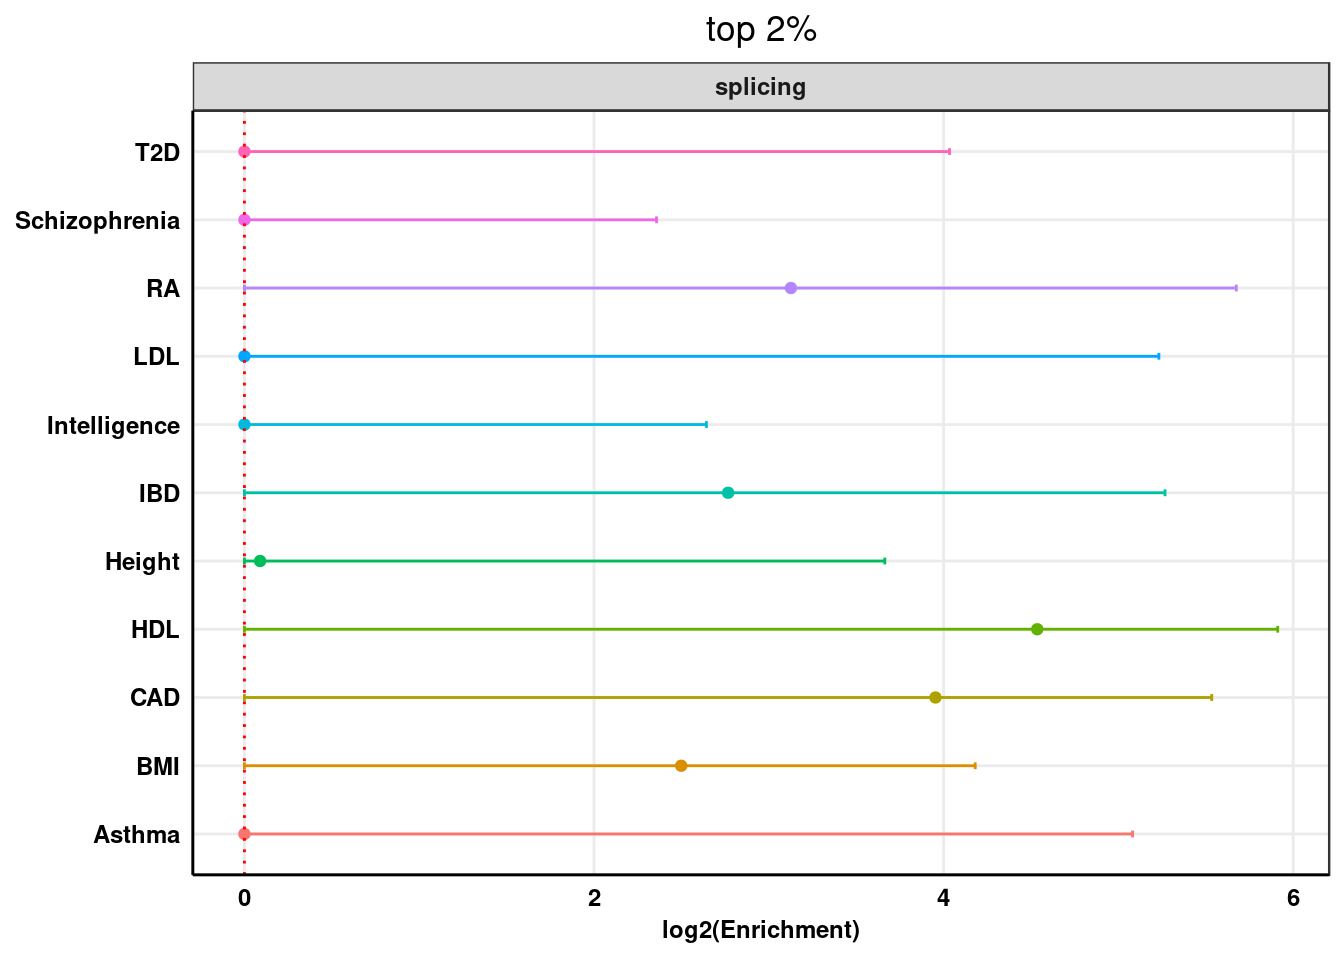
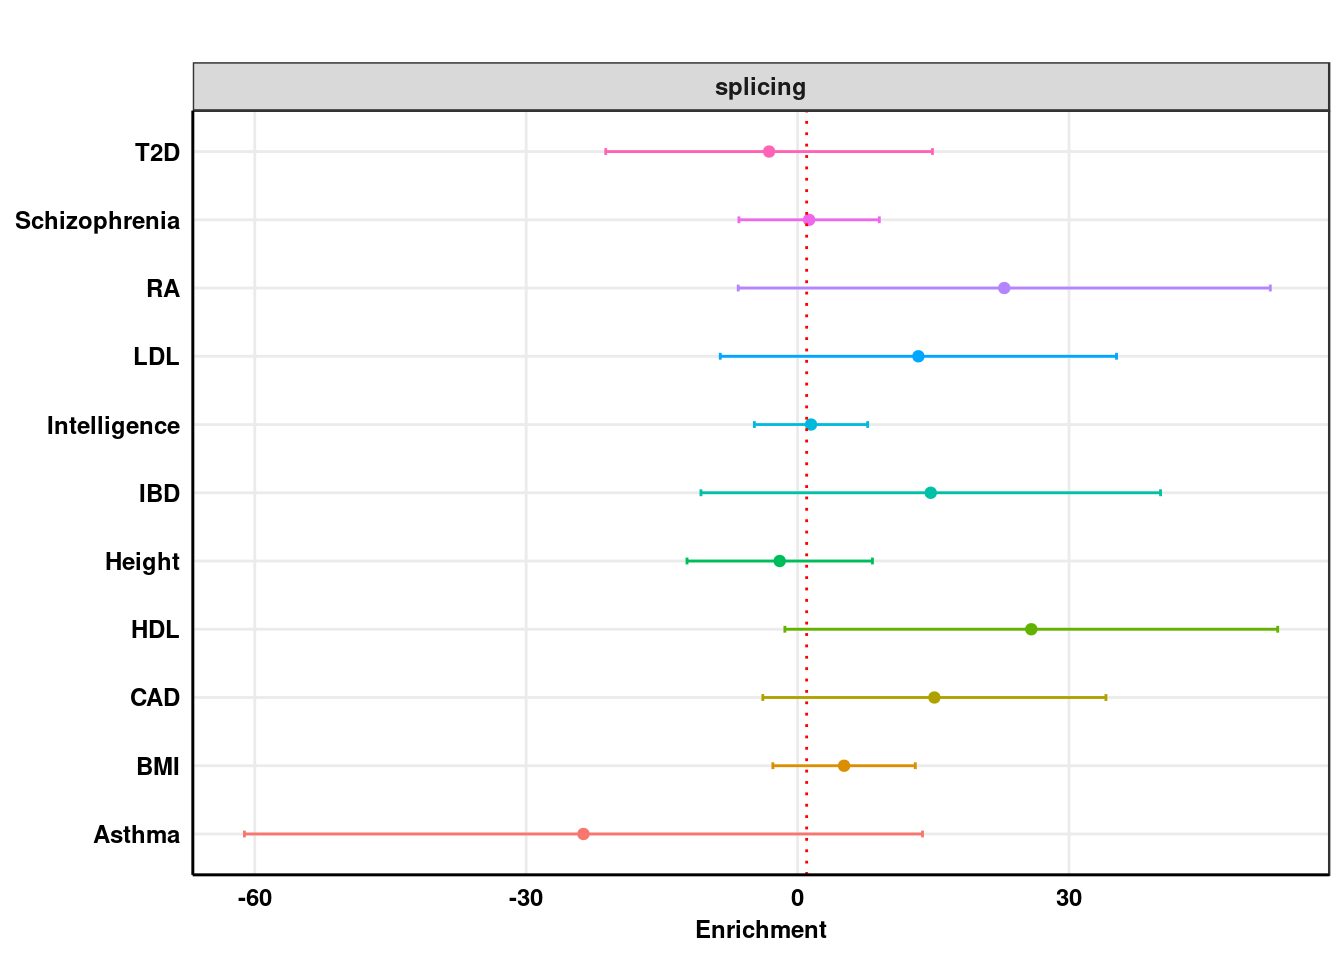
Build site.

diff --git a/docs/sldsc.html b/docs/sldsc.html
@@ -353,7 +353,7 @@ div.tocify {
 <div class="tab-content">
 <div id="summary" class="tab-pane fade in active">
 <p>
-<strong>Last updated:</strong> 2020-09-08
+<strong>Last updated:</strong> 2020-09-18
 </p>
 <p>
 <strong>Checks:</strong> <span class="glyphicon glyphicon-ok text-success" aria-hidden="true"></span> 7 <span class="glyphicon glyphicon-exclamation-sign text-danger" aria-hidden="true"></span> 0
@@ -444,16 +444,16 @@ This reproducible <a href="http://rmarkdown.rstudio.com">R Markdown</a> analysis
 <div class="panel panel-default">
 <div class="panel-heading">
 <p class="panel-title">
-<a data-toggle="collapse" data-parent="#workflowr-checks" href="#strongRepositoryversionstrongahrefhttpsgithubcomcdu8sldscsplicingtreedc48f7040b5e7a2f9f46de739e7020160c7e859etargetblankdc48f70a"> <span class="glyphicon glyphicon-ok text-success" aria-hidden="true"></span> <strong>Repository version:</strong> <a href="https://github.com/cdu8/sldsc_splicing/tree/dc48f7040b5e7a2f9f46de739e7020160c7e859e" target="_blank">dc48f70</a> </a>
+<a data-toggle="collapse" data-parent="#workflowr-checks" href="#strongRepositoryversionstrongahrefhttpsgithubcomcdu8sldscsplicingtree159b332658da0a9349ab86168fc42ccd061981d0targetblank159b332a"> <span class="glyphicon glyphicon-ok text-success" aria-hidden="true"></span> <strong>Repository version:</strong> <a href="https://github.com/cdu8/sldsc_splicing/tree/159b332658da0a9349ab86168fc42ccd061981d0" target="_blank">159b332</a> </a>
 </p>
 </div>
[2 lines of base64/hex data omitted]
 <div class="panel-body">
 <p>
 Great! You are using Git for version control. Tracking code development and connecting the code version to the results is critical for reproducibility.
 </p>
 <p>
-The results in this page were generated with repository version <a href="https://github.com/cdu8/sldsc_splicing/tree/dc48f7040b5e7a2f9f46de739e7020160c7e859e" target="_blank">dc48f70</a>. See the <em>Past versions</em> tab to see a history of the changes made to the R Markdown and HTML files.
+The results in this page were generated with repository version <a href="https://github.com/cdu8/sldsc_splicing/tree/159b332658da0a9349ab86168fc42ccd061981d0" target="_blank">159b332</a>. See the <em>Past versions</em> tab to see a history of the changes made to the R Markdown and HTML files.
 </p>
 <p>
 Note that you need to be careful to ensure that all relevant files for the analysis have been committed to Git prior to generating the results (you can use <code>wflow_publish</code> or <code>wflow_git_commit</code>). workflowr only checks the R Markdown file, but you know if there are other scripts or data files that it depends on. Below is the status of the Git repository when the results were generated:
@@ -499,6 +499,40 @@ Message
 </tr>
 </thead>
 <tbody>
+<tr>
+<td>
+Rmd
+</td>
+<td>
+<a href="https://github.com/cdu8/sldsc_splicing/blob/159b332658da0a9349ab86168fc42ccd061981d0/analysis/sldsc.Rmd" target="_blank">159b332</a>
+</td>
+<td>
+cdu8
+</td>
+<td>
+2020-09-18
+</td>
+<td>
+wflow_publish(c(“analysis/sldsc.Rmd”))
+</td>
+</tr>
+<tr>
+<td>
+html
+</td>
+<td>
+<a href="https://rawcdn.githack.com/cdu8/sldsc_splicing/635efaf0d599e64fda2ac444624e596f7b6f90d6/docs/sldsc.html" target="_blank">635efaf</a>
+</td>
+<td>
+cdu8
+</td>
+<td>
+2020-09-08
+</td>
+<td>
+Build site.
+</td>
+</tr>
 <tr>
 <td>
 Rmd
@@ -794,34 +828,43 @@ combine_sldsc_traits &lt;- function(trait_name_list, dir_results, baseline, topX
 dir_results &lt;- &quot;/project2/xinhe/cdu/ldsc/results/splicing&quot;
 
 #top5
-result_sLDSC_top5 &lt;- combine_sldsc_traits(trait_name_list, dir_results, baseline, &quot;top5_filt&quot;, &quot;hg19_spidex_0.05_filt&quot;)
+result_sLDSC_top5 &lt;- combine_sldsc_traits(trait_name_list, dir_results, baseline, &quot;top5&quot;, &quot;hg19_spidex_0.05&quot;)
 result_sLDSC_top5$Category &lt;- factor(result_sLDSC_top5$Category, levels = rev(annot_list) )
 result_sLDSC_top5$Color &lt;- factor(result_sLDSC_top5$Disease, levels = trait_name_list)
 
 #top2
-result_sLDSC_top2 &lt;- combine_sldsc_traits(trait_name_list, dir_results, baseline, &quot;top2_filt&quot;, &quot;hg19_spidex_0.02_filt&quot;)
+result_sLDSC_top2 &lt;- combine_sldsc_traits(trait_name_list, dir_results, baseline, &quot;top2&quot;, &quot;hg19_spidex_0.02&quot;)
 result_sLDSC_top2$Category &lt;- factor(result_sLDSC_top2$Category, levels = rev(annot_list) )
 result_sLDSC_top2$Color &lt;- factor(result_sLDSC_top2$Disease, levels = trait_name_list)
 
 #top10
-result_sLDSC_top10 &lt;- combine_sldsc_traits(trait_name_list, dir_results, baseline, &quot;top10_filt&quot;, &quot;hg19_spidex_0.10_filt&quot;)
+result_sLDSC_top10 &lt;- combine_sldsc_traits(trait_name_list, dir_results, baseline, &quot;top10&quot;, &quot;hg19_spidex_0.10&quot;)
 result_sLDSC_top10$Category &lt;- factor(result_sLDSC_top10$Category, levels = rev(annot_list) )
-result_sLDSC_top10$Color &lt;- factor(result_sLDSC_top10$Disease, levels = trait_name_list)</code></pre>
+result_sLDSC_top10$Color &lt;- factor(result_sLDSC_top10$Disease, levels = trait_name_list)
+
+#continuous
+result_sLDSC_cont &lt;- combine_sldsc_traits(trait_name_list, dir_results, baseline, &quot;continuous&quot;, &quot;hg19_spidex_dpsi_zscore&quot;)
+result_sLDSC_cont$Category &lt;- factor(result_sLDSC_cont$Category, levels = rev(annot_list) )
+result_sLDSC_cont$Color &lt;- factor(result_sLDSC_cont$Disease, levels = trait_name_list)</code></pre>
 <div id="data-tables" class="section level3">
 <h3>Data Tables</h3>
 <pre class="r"><code>DT::datatable(format(result_sLDSC_top2[,1:8], digits = 2), options = list(scrollX = TRUE, keys = TRUE),rownames = F, caption = &#39;Table 1. Top 2%&#39;)</code></pre>
 <div id="htmlwidget-578d03fe88b24cf1b205" style="width:100%;height:auto;" class="datatables html-widget"></div>
-<script type="application/json" data-for="htmlwidget-578d03fe88b24cf1b205">{"x":{"filter":"none","caption":"<caption>Table 1. Top 2%<\/caption>","data":[["Asthma","BMI","CAD","HDL","Height","IBD","Intelligence","LDL","RA","Schizophrenia","T2D"],["splicing","splicing","splicing","splicing","splicing","splicing","splicing","splicing","splicing","splicing","splicing"],["0.0012","0.0012","0.0012","0.0012","0.0012","0.0012","0.0012","0.0012","0.0012","0.0012","0.0012"],["-0.0160"," 0.0067"," 0.0185"," 0.0277"," 0.0013"," 0.0081","-0.0046","-0.0097"," 0.0104","-0.0079","-0.0092"],["0.0288","0.0076","0.0188","0.0225","0.0071","0.0193","0.0061","0.0278","0.0258","0.0071","0.0147"],["-13.4","  5.7"," 15.5"," 23.2","  1.1","  6.8"," -3.8"," -8.2","  8.7"," -6.6"," -7.7"],["24.1"," 6.4","15.7","18.9"," 5.9","16.2"," 5.1","23.3","21.6"," 6.0","12.3"],["0.55","0.47","0.36","0.25","0.99","0.72","0.35","0.69","0.72","0.20","0.48"]],"container":"<table class=\"display\">\n  <thead>\n    <tr>\n      <th>Disease<\/th>\n      <th>Category<\/th>\n      <th>Prop._SNPs<\/th>\n      <th>Prop._h2<\/th>\n      <th>Prop._h2_std_error<\/th>\n      <th>Enrichment<\/th>\n      <th>Enrichment_std_error<\/th>\n      <th>Enrichment_p<\/th>\n    <\/tr>\n  <\/thead>\n<\/table>","options":{"scrollX":true,"keys":true,"order":[],"autoWidth":false,"orderClasses":false}},"evals":[],"jsHooks":[]}</script>
+<script type="application/json" data-for="htmlwidget-578d03fe88b24cf1b205">{"x":{"filter":"none","caption":"<caption>Table 1. Top 2%<\/caption>","data":[["Asthma","BMI","CAD","HDL","Height","IBD","Intelligence","LDL","RA","Schizophrenia","T2D"],["splicing","splicing","splicing","splicing","splicing","splicing","splicing","splicing","splicing","splicing","splicing"],["0.00091","0.00091","0.00091","0.00091","0.00091","0.00091","0.00091","0.00091","0.00091","0.00091","0.00091"],["-3.1e-02"," 5.7e-03"," 1.9e-02"," 2.0e-02"," 1.4e-05"," 5.3e-03","-1.3e-03","-1.5e-02"," 1.3e-03","-1.9e-03","-1.3e-02"],["0.0239","0.0063","0.0153","0.0236","0.0064","0.0170","0.0054","0.0247","0.0212","0.0065","0.0139"],["-34.176","  6.282"," 20.954"," 22.141","  0.015","  5.775"," -1.440","-16.596","  1.378"," -2.043","-14.370"],["26.2"," 6.9","16.8","25.9"," 7.0","18.7"," 5.9","27.1","23.3"," 7.2","15.2"],["0.18","0.44","0.24","0.41","0.89","0.80","0.68","0.51","0.99","0.67","0.31"]],"container":"<table class=\"display\">\n  <thead>\n    <tr>\n      <th>Disease<\/th>\n      <th>Category<\/th>\n      <th>Prop._SNPs<\/th>\n      <th>Prop._h2<\/th>\n      <th>Prop._h2_std_error<\/th>\n      <th>Enrichment<\/th>\n      <th>Enrichment_std_error<\/th>\n      <th>Enrichment_p<\/th>\n    <\/tr>\n  <\/thead>\n<\/table>","options":{"scrollX":true,"keys":true,"order":[],"autoWidth":false,"orderClasses":false}},"evals":[],"jsHooks":[]}</script>
 <pre class="r"><code>DT::datatable(format(result_sLDSC_top5[,1:8], digits = 2), options = list(scrollX = TRUE, keys = TRUE),rownames = F, caption = &#39;Table 2. Top 5%&#39;)</code></pre>
 <div id="htmlwidget-3b4dcd290ae952b4a851" style="width:100%;height:auto;" class="datatables html-widget"></div>
-<script type="application/json" data-for="htmlwidget-3b4dcd290ae952b4a851">{"x":{"filter":"none","caption":"<caption>Table 2. Top 5%<\/caption>","data":[["Asthma","BMI","CAD","HDL","Height","IBD","Intelligence","LDL","RA","Schizophrenia","T2D"],["splicing","splicing","splicing","splicing","splicing","splicing","splicing","splicing","splicing","splicing","splicing"],["0.0029","0.0029","0.0029","0.0029","0.0029","0.0029","0.0029","0.0029","0.0029","0.0029","0.0029"],["-0.0331"," 0.0190"," 0.0335"," 0.0604","-0.0052"," 0.0626"," 0.0011"," 0.0267"," 0.0610","-0.0014","-0.0034"],["0.0424","0.0118","0.0245","0.0294","0.0126","0.0325","0.0085","0.0292","0.0409","0.0094","0.0212"],["-11.52","  6.62"," 11.68"," 21.03"," -1.80"," 21.81","  0.38","  9.31"," 21.23"," -0.47"," -1.19"],["14.8"," 4.1"," 8.5","10.2"," 4.4","11.3"," 3.0","10.2","14.3"," 3.3"," 7.4"],["0.396","0.173","0.214","0.064","0.524","0.066","0.835","0.405","0.157","0.653","0.767"]],"container":"<table class=\"display\">\n  <thead>\n    <tr>\n      <th>Disease<\/th>\n      <th>Category<\/th>\n      <th>Prop._SNPs<\/th>\n      <th>Prop._h2<\/th>\n      <th>Prop._h2_std_error<\/th>\n      <th>Enrichment<\/th>\n      <th>Enrichment_std_error<\/th>\n      <th>Enrichment_p<\/th>\n    <\/tr>\n  <\/thead>\n<\/table>","options":{"scrollX":true,"keys":true,"order":[],"autoWidth":false,"orderClasses":false}},"evals":[],"jsHooks":[]}</script>
+<script type="application/json" data-for="htmlwidget-3b4dcd290ae952b4a851">{"x":{"filter":"none","caption":"<caption>Table 2. Top 5%<\/caption>","data":[["Asthma","BMI","CAD","HDL","Height","IBD","Intelligence","LDL","RA","Schizophrenia","T2D"],["splicing","splicing","splicing","splicing","splicing","splicing","splicing","splicing","splicing","splicing","splicing"],["0.0022","0.0022","0.0022","0.0022","0.0022","0.0022","0.0022","0.0022","0.0022","0.0022","0.0022"],["-0.0530"," 0.0115"," 0.0339"," 0.0578","-0.0044"," 0.0330"," 0.0033"," 0.0299"," 0.0512"," 0.0028","-0.0071"],["0.0428","0.0090","0.0217","0.0311","0.0117","0.0290","0.0072","0.0250","0.0336","0.0089","0.0206"],["-23.7","  5.1"," 15.1"," 25.8"," -2.0"," 14.7","  1.5"," 13.4"," 22.8","  1.3"," -3.2"],["19.1"," 4.0"," 9.7","13.9"," 5.2","13.0"," 3.2","11.2","15.0"," 4.0"," 9.2"],["0.20","0.30","0.15","0.09","0.57","0.29","0.88","0.26","0.15","0.95","0.65"]],"container":"<table class=\"display\">\n  <thead>\n    <tr>\n      <th>Disease<\/th>\n      <th>Category<\/th>\n      <th>Prop._SNPs<\/th>\n      <th>Prop._h2<\/th>\n      <th>Prop._h2_std_error<\/th>\n      <th>Enrichment<\/th>\n      <th>Enrichment_std_error<\/th>\n      <th>Enrichment_p<\/th>\n    <\/tr>\n  <\/thead>\n<\/table>","options":{"scrollX":true,"keys":true,"order":[],"autoWidth":false,"orderClasses":false}},"evals":[],"jsHooks":[]}</script>
 <pre class="r"><code>DT::datatable(format(result_sLDSC_top10[,1:8], digits = 2), options = list(scrollX = TRUE, keys = TRUE),rownames = F, caption = &#39;Table 3. Top 10%&#39;)</code></pre>
 <div id="htmlwidget-817a18af4cae29c47eae" style="width:100%;height:auto;" class="datatables html-widget"></div>
-<script type="application/json" data-for="htmlwidget-817a18af4cae29c47eae">{"x":{"filter":"none","caption":"<caption>Table 3. Top 10%<\/caption>","data":[["Asthma","BMI","CAD","HDL","Height","IBD","Intelligence","LDL","RA","Schizophrenia","T2D"],["splicing","splicing","splicing","splicing","splicing","splicing","splicing","splicing","splicing","splicing","splicing"],["0.0055","0.0055","0.0055","0.0055","0.0055","0.0055","0.0055","0.0055","0.0055","0.0055","0.0055"],["-0.0099"," 0.0340"," 0.0567"," 0.0449","-0.0089"," 0.0995"," 0.0080"," 0.0161"," 0.0554"," 0.0024"," 0.0198"],["0.046","0.015","0.030","0.031","0.018","0.044","0.010","0.033","0.047","0.011","0.025"],["-1.80"," 6.17","10.29"," 8.16","-1.62","18.06"," 1.45"," 2.92","10.05"," 0.44"," 3.60"],["8.3","2.6","5.4","5.6","3.3","8.0","1.9","6.0","8.5","2.1","4.5"],["0.735","0.054","0.086","0.204","0.430","0.033","0.815","0.743","0.284","0.788","0.558"]],"container":"<table class=\"display\">\n  <thead>\n    <tr>\n      <th>Disease<\/th>\n      <th>Category<\/th>\n      <th>Prop._SNPs<\/th>\n      <th>Prop._h2<\/th>\n      <th>Prop._h2_std_error<\/th>\n      <th>Enrichment<\/th>\n      <th>Enrichment_std_error<\/th>\n      <th>Enrichment_p<\/th>\n    <\/tr>\n  <\/thead>\n<\/table>","options":{"scrollX":true,"keys":true,"order":[],"autoWidth":false,"orderClasses":false}},"evals":[],"jsHooks":[]}</script>
+<script type="application/json" data-for="htmlwidget-817a18af4cae29c47eae">{"x":{"filter":"none","caption":"<caption>Table 3. Top 10%<\/caption>","data":[["Asthma","BMI","CAD","HDL","Height","IBD","Intelligence","LDL","RA","Schizophrenia","T2D"],["splicing","splicing","splicing","splicing","splicing","splicing","splicing","splicing","splicing","splicing","splicing"],["0.0044","0.0044","0.0044","0.0044","0.0044","0.0044","0.0044","0.0044","0.0044","0.0044","0.0044"],["-0.0413"," 0.0208"," 0.0453"," 0.0386","-0.0119"," 0.0730"," 0.0072","-0.0020"," 0.0414"," 0.0016"," 0.0175"],["0.0503","0.0118","0.0282","0.0327","0.0169","0.0379","0.0094","0.0328","0.0436","0.0110","0.0255"],["-9.44"," 4.76","10.35"," 8.83","-2.72","16.68"," 1.64","-0.46"," 9.45"," 0.37"," 3.99"],["11.5"," 2.7"," 6.4"," 7.5"," 3.9"," 8.6"," 2.2"," 7.5","10.0"," 2.5"," 5.8"],["0.366","0.168","0.149","0.295","0.339","0.071","0.768","0.844","0.395","0.802","0.607"]],"container":"<table class=\"display\">\n  <thead>\n    <tr>\n      <th>Disease<\/th>\n      <th>Category<\/th>\n      <th>Prop._SNPs<\/th>\n      <th>Prop._h2<\/th>\n      <th>Prop._h2_std_error<\/th>\n      <th>Enrichment<\/th>\n      <th>Enrichment_std_error<\/th>\n      <th>Enrichment_p<\/th>\n    <\/tr>\n  <\/thead>\n<\/table>","options":{"scrollX":true,"keys":true,"order":[],"autoWidth":false,"orderClasses":false}},"evals":[],"jsHooks":[]}</script>
+<pre class="r"><code>DT::datatable(format(result_sLDSC_cont[,1:8], digits = 2), options = list(scrollX = TRUE, keys = TRUE),rownames = F, caption = &#39;Table 4. Continuous Annotations&#39;)</code></pre>
+<div id="htmlwidget-34aeaa04160f68cdf503" style="width:100%;height:auto;" class="datatables html-widget"></div>
+<script type="application/json" data-for="htmlwidget-34aeaa04160f68cdf503">{"x":{"filter":"none","caption":"<caption>Table 4. Continuous Annotations<\/caption>","data":[["Asthma","BMI","CAD","HDL","Height","IBD","Intelligence","LDL","RA","Schizophrenia","T2D"],["splicing","splicing","splicing","splicing","splicing","splicing","splicing","splicing","splicing","splicing","splicing"],["-0.0014","-0.0014","-0.0014","-0.0014","-0.0014","-0.0014","-0.0014","-0.0014","-0.0014","-0.0014","-0.0014"],["-0.06436","-0.00041"," 0.21101"," 0.04184"," 0.07801","-0.11640","-0.01199"," 0.02076"," 0.06765","-0.01732"," 0.09815"],["0.221","0.036","0.105","0.108","0.067","0.138","0.035","0.159","0.135","0.045","0.097"],["  46.11","   0.29","-151.19"," -29.98"," -55.89","  83.40","   8.59"," -14.88"," -48.47","  12.41"," -70.32"],["-158"," -26"," -76"," -77"," -48"," -99"," -25","-114"," -97"," -32"," -70"],["0.775","0.978","0.042","0.686","0.237","0.406","0.765","0.886","0.608","0.725","0.306"]],"container":"<table class=\"display\">\n  <thead>\n    <tr>\n      <th>Disease<\/th>\n      <th>Category<\/th>\n      <th>Prop._SNPs<\/th>\n      <th>Prop._h2<\/th>\n      <th>Prop._h2_std_error<\/th>\n      <th>Enrichment<\/th>\n      <th>Enrichment_std_error<\/th>\n      <th>Enrichment_p<\/th>\n    <\/tr>\n  <\/thead>\n<\/table>","options":{"scrollX":true,"keys":true,"order":[],"autoWidth":false,"orderClasses":false}},"evals":[],"jsHooks":[]}</script>
 </div>
-<div id="enrichment-plots" class="section level3">
-<h3>Enrichment Plots</h3>
-<pre class="r"><code>ggplot_enrichment(result_sLDSC_top2, title = &quot;top 2%&quot;)</code></pre>
+<div id="top-2" class="section level3">
+<h3>Top 2%</h3>
+<pre class="r"><code>library(gridExtra)
+grid.arrange(ggplot_enrichment(result_sLDSC_top2, title = &quot;&quot;), ggplot_log2_enrichment(result_sLDSC_top2, title = &quot;&quot;), ncol=2)</code></pre>
 <p><img src="figure/sldsc.Rmd/unnamed-chunk-5-1.png" width="672" style="display: block; margin: auto;" /></p>
 <p>
 <button type="button" class="btn btn-default btn-xs btn-workflowr btn-workflowr-fig" data-toggle="collapse" data-target="#fig-unnamed-chunk-5-1">
@@ -847,6 +890,17 @@ Date
 <tbody>
 <tr>
 <td>
+<a href="https://github.com/cdu8/sldsc_splicing/blob/635efaf0d599e64fda2ac444624e596f7b6f90d6/docs/figure/sldsc.Rmd/unnamed-chunk-5-1.png" target="_blank">635efaf</a>
+</td>
+<td>
+cdu8
+</td>
+<td>
+2020-09-08
+</td>
+</tr>
+<tr>
+<td>
 <a href="https://github.com/cdu8/sldsc_splicing/blob/6035c05b3d97b15e41ada37be587cb78af54c554/docs/figure/sldsc.Rmd/unnamed-chunk-5-1.png" target="_blank">6035c05</a>
 </td>
 <td>
@@ -860,7 +914,6 @@ cdu8
 </table>
 </div>
 </div>
-<pre class="r"><code>ggplot_enrichment(result_sLDSC_top5, title = &quot;top 5%&quot;)</code></pre>
 <p><img src="figure/sldsc.Rmd/unnamed-chunk-5-2.png" width="672" style="display: block; margin: auto;" /></p>
 <p>
 <button type="button" class="btn btn-default btn-xs btn-workflowr btn-workflowr-fig" data-toggle="collapse" data-target="#fig-unnamed-chunk-5-2">
@@ -886,6 +939,17 @@ Date
 <tbody>
 <tr>
 <td>
+<a href="https://github.com/cdu8/sldsc_splicing/blob/635efaf0d599e64fda2ac444624e596f7b6f90d6/docs/figure/sldsc.Rmd/unnamed-chunk-5-2.png" target="_blank">635efaf</a>
+</td>
+<td>
+cdu8
+</td>
+<td>
+2020-09-08
+</td>
+</tr>
+<tr>
+<td>
 <a href="https://github.com/cdu8/sldsc_splicing/blob/6035c05b3d97b15e41ada37be587cb78af54c554/docs/figure/sldsc.Rmd/unnamed-chunk-5-2.png" target="_blank">6035c05</a>
 </td>
 <td>
@@ -899,17 +963,196 @@ cdu8
 </table>
 </div>
 </div>
-<pre class="r"><code>ggplot_enrichment(result_sLDSC_top10, title = &quot;top 10%&quot;)</code></pre>
-<p><img src="figure/sldsc.Rmd/unnamed-chunk-5-3.png" width="672" style="display: block; margin: auto;" /></p>
 </div>
-<div id="log2enrichment-plots" class="section level3">
-<h3>log2(Enrichment) Plots</h3>
-<pre class="r"><code>ggplot_log2_enrichment(result_sLDSC_top2, title = &quot;top 2%&quot;)</code></pre>
+<div id="top-5" class="section level3">
+<h3>Top 5%</h3>
+<pre class="r"><code>library(gridExtra)
+grid.arrange(ggplot_enrichment(result_sLDSC_top5, title = &quot;&quot;), ggplot_log2_enrichment(result_sLDSC_top5, title = &quot;&quot;), ncol=2)</code></pre>
 <p><img src="figure/sldsc.Rmd/unnamed-chunk-6-1.png" width="672" style="display: block; margin: auto;" /></p>
-<pre class="r"><code>ggplot_log2_enrichment(result_sLDSC_top5, title = &quot;top 5%&quot;)</code></pre>
+<p>
+<button type="button" class="btn btn-default btn-xs btn-workflowr btn-workflowr-fig" data-toggle="collapse" data-target="#fig-unnamed-chunk-6-1">
+Past versions of unnamed-chunk-6-1.png
+</button>
+</p>
+<div id="fig-unnamed-chunk-6-1" class="collapse">
+<div class="table-responsive">
+<table class="table table-condensed table-hover">
+<thead>
+<tr>
+<th>
+Version
+</th>
+<th>
+Author
+</th>
+<th>
+Date
+</th>
+</tr>
+</thead>
+<tbody>
+<tr>
+<td>
+<a href="https://github.com/cdu8/sldsc_splicing/blob/635efaf0d599e64fda2ac444624e596f7b6f90d6/docs/figure/sldsc.Rmd/unnamed-chunk-6-1.png" target="_blank">635efaf</a>
+</td>
+<td>
+cdu8
+</td>
+<td>
+2020-09-08
+</td>
+</tr>
+</tbody>
+</table>
+</div>
+</div>
 <p><img src="figure/sldsc.Rmd/unnamed-chunk-6-2.png" width="672" style="display: block; margin: auto;" /></p>
-<pre class="r"><code>ggplot_log2_enrichment(result_sLDSC_top10, title = &quot;top 10%&quot;)</code></pre>
-<p><img src="figure/sldsc.Rmd/unnamed-chunk-6-3.png" width="672" style="display: block; margin: auto;" /></p>
+<p>
+<button type="button" class="btn btn-default btn-xs btn-workflowr btn-workflowr-fig" data-toggle="collapse" data-target="#fig-unnamed-chunk-6-2">
+Past versions of unnamed-chunk-6-2.png
+</button>
+</p>
+<div id="fig-unnamed-chunk-6-2" class="collapse">
+<div class="table-responsive">
+<table class="table table-condensed table-hover">
+<thead>
+<tr>
+<th>
+Version
+</th>
+<th>
+Author
+</th>
+<th>
+Date
+</th>
+</tr>
+</thead>
+<tbody>
+<tr>
+<td>
+<a href="https://github.com/cdu8/sldsc_splicing/blob/635efaf0d599e64fda2ac444624e596f7b6f90d6/docs/figure/sldsc.Rmd/unnamed-chunk-6-2.png" target="_blank">635efaf</a>
+</td>
+<td>
+cdu8
+</td>
+<td>
+2020-09-08
+</td>
+</tr>
+</tbody>
+</table>
+</div>
+</div>
+</div>
+<div id="top-10" class="section level3">
+<h3>Top 10%</h3>
+<pre class="r"><code>library(gridExtra)
+grid.arrange(ggplot_enrichment(result_sLDSC_top10, title = &quot;&quot;), ggplot_log2_enrichment(result_sLDSC_top10, title = &quot;&quot;), ncol=2)</code></pre>
+<p><img src="figure/sldsc.Rmd/unnamed-chunk-7-1.png" width="672" style="display: block; margin: auto;" /></p>
+<p>
+<button type="button" class="btn btn-default btn-xs btn-workflowr btn-workflowr-fig" data-toggle="collapse" data-target="#fig-unnamed-chunk-7-1">
+Past versions of unnamed-chunk-7-1.png
+</button>
+</p>
+<div id="fig-unnamed-chunk-7-1" class="collapse">
+<div class="table-responsive">
+<table class="table table-condensed table-hover">
+<thead>
+<tr>
+<th>
+Version
+</th>
+<th>
+Author
+</th>
+<th>
+Date
+</th>
+</tr>
+</thead>
+<tbody>
+<tr>
+<td>
+<a href="https://github.com/cdu8/sldsc_splicing/blob/635efaf0d599e64fda2ac444624e596f7b6f90d6/docs/figure/sldsc.Rmd/unnamed-chunk-7-1.png" target="_blank">635efaf</a>
+</td>
+<td>
+cdu8
+</td>
+<td>
+2020-09-08
+</td>
+</tr>
+<tr>
+<td>
+<a href="https://github.com/cdu8/sldsc_splicing/blob/dab596193dc972eba58aed544dbd19cd7bd3bbbc/docs/figure/sldsc.Rmd/unnamed-chunk-7-1.png" target="_blank">dab5961</a>
+</td>
+<td>
+cdu8
+</td>
+<td>
+2020-08-22
+</td>
+</tr>
+</tbody>
+</table>
+</div>
+</div>
+<p><img src="figure/sldsc.Rmd/unnamed-chunk-7-2.png" width="672" style="display: block; margin: auto;" /></p>
+<p>
+<button type="button" class="btn btn-default btn-xs btn-workflowr btn-workflowr-fig" data-toggle="collapse" data-target="#fig-unnamed-chunk-7-2">
+Past versions of unnamed-chunk-7-2.png
+</button>
+</p>
+<div id="fig-unnamed-chunk-7-2" class="collapse">
+<div class="table-responsive">
+<table class="table table-condensed table-hover">
+<thead>
+<tr>
+<th>
+Version
+</th>
+<th>
+Author
+</th>
+<th>
+Date
+</th>
+</tr>
+</thead>
+<tbody>
+<tr>
+<td>
+<a href="https://github.com/cdu8/sldsc_splicing/blob/635efaf0d599e64fda2ac444624e596f7b6f90d6/docs/figure/sldsc.Rmd/unnamed-chunk-7-2.png" target="_blank">635efaf</a>
+</td>
+<td>
+cdu8
+</td>
+<td>
+2020-09-08
+</td>
+</tr>
+<tr>
+<td>
+<a href="https://github.com/cdu8/sldsc_splicing/blob/dab596193dc972eba58aed544dbd19cd7bd3bbbc/docs/figure/sldsc.Rmd/unnamed-chunk-7-2.png" target="_blank">dab5961</a>
+</td>
+<td>
+cdu8
+</td>
+<td>
+2020-08-22
+</td>
+</tr>
+</tbody>
+</table>
+</div>
+</div>
+</div>
+<div id="continuous" class="section level3">
+<h3>Continuous</h3>
+<pre class="r"><code>library(gridExtra)
+grid.arrange(ggplot_enrichment(result_sLDSC_cont, title = &quot;&quot;), ggplot_log2_enrichment(result_sLDSC_cont, title = &quot;&quot;), ncol=2)</code></pre>
+<p><img src="figure/sldsc.Rmd/unnamed-chunk-8-1.png" width="672" style="display: block; margin: auto;" /><img src="figure/sldsc.Rmd/unnamed-chunk-8-2.png" width="672" style="display: block; margin: auto;" /></p>
 <br>
 <p>
 <button type="button" class="btn btn-default btn-workflowr btn-workflowr-sessioninfo" data-toggle="collapse" data-target="#workflowr-sessioninfo" style="display: block;">
@@ -938,7 +1181,8 @@ attached base packages:
 [8] base     
 
 other attached packages:
-[1] doParallel_1.0.14 iterators_1.0.10  foreach_1.4.4     ggplot2_3.1.1    
+[1] gridExtra_2.3     doParallel_1.0.14 iterators_1.0.10  foreach_1.4.4    
+[5] ggplot2_3.1.1    
 
 loaded via a namespace (and not attached):
  [1] Rcpp_1.0.4.6     compiler_3.5.1   pillar_1.3.1     later_0.7.5     
